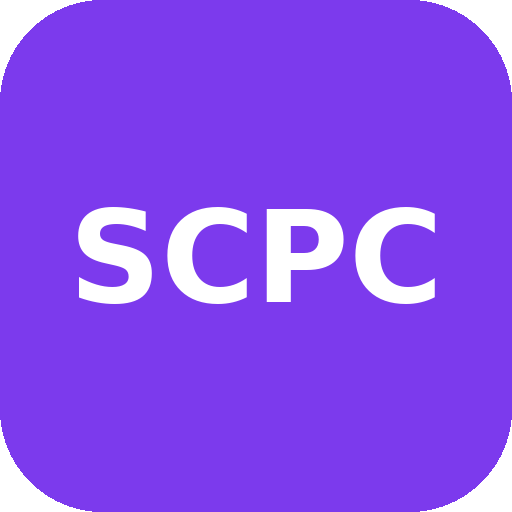
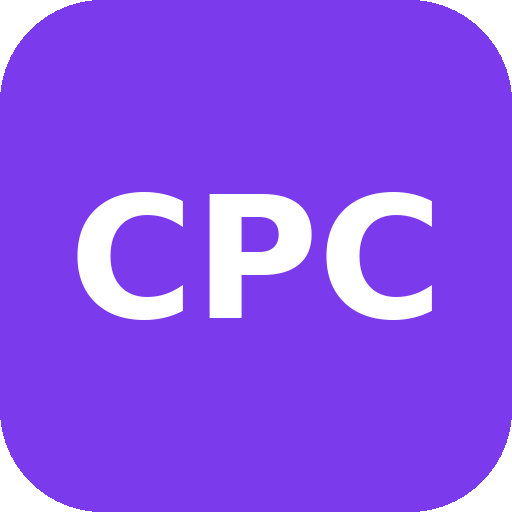
Add files via upload

Changed region(s): [[0.125, 0.375, 0.875, 0.625]]

diff --git a/index.html b/index.html
@@ -3,12 +3,12 @@
 <head>
 <meta charset="UTF-8">
 <meta name="viewport" content="width=device-width, initial-scale=1.0, maximum-scale=1.0, user-scalable=no">
-<title>SCPC - Sistema de Controle de Pagamentos com Cartão</title>
-<meta name="description" content="Sistema de Controle de Pagamentos com Cartão">
+<title>CPC - Controle de Pagamentos com Cartão</title>
+<meta name="description" content="Controle de Pagamentos com Cartão">
 <meta name="theme-color" content="#7c3aed">
 <meta name="apple-mobile-web-app-capable" content="yes">
 <meta name="apple-mobile-web-app-status-bar-style" content="black-translucent">
-<meta name="apple-mobile-web-app-title" content="SCPC">
+<meta name="apple-mobile-web-app-title" content="CPC">
 <link rel="manifest" href="manifest.json">
 <link rel="apple-touch-icon" href="icon-192.png">
 <link rel="icon" type="image/png" sizes="192x192" href="icon-192.png">
@@ -174,8 +174,8 @@ function App(){
   if(!user)return(<div style={{minHeight:"100vh",background:Z.bg,display:"flex",alignItems:"center",justifyContent:"center",fontFamily:Z.ft}}>
     <link href="https://fonts.googleapis.com/css2?family=Outfit:wght@300;400;500;600;700&family=JetBrains+Mono:wght@400;500;700&display=swap" rel="stylesheet"/>
     <div style={{background:Z.cd,border:`1px solid ${Z.bd2}`,borderRadius:16,padding:36,width:"90%",maxWidth:380,textAlign:"center"}}>
-      <div style={{width:56,height:56,borderRadius:14,background:`linear-gradient(135deg,${Z.ac3},${Z.ac2})`,display:"flex",alignItems:"center",justifyContent:"center",fontFamily:Z.mn,fontWeight:700,fontSize:14,color:"#fff",margin:"0 auto 16px"}}>SCPC</div>
-      <h1 style={{color:Z.tx,fontSize:20,fontWeight:600,margin:"0 0 6px"}}>SCPC - Sistema de Controle de Pagamentos com Cartão</h1>
+      <div style={{width:56,height:56,borderRadius:14,background:`linear-gradient(135deg,${Z.ac3},${Z.ac2})`,display:"flex",alignItems:"center",justifyContent:"center",fontFamily:Z.mn,fontWeight:700,fontSize:14,color:"#fff",margin:"0 auto 16px"}}>CPC</div>
+      <h1 style={{color:Z.tx,fontSize:20,fontWeight:600,margin:"0 0 6px"}}>CPC - Controle de Pagamentos com Cartão</h1>
       <p style={{color:Z.tx3,fontSize:12,margin:"0 0 24px"}}>Sistema de Controle de Pagamentos com Cartão</p>
       <button onClick={handleLogin} style={{background:"#fff",color:"#333",border:"none",borderRadius:8,padding:"12px 24px",fontSize:13,fontWeight:600,cursor:"pointer",display:"flex",alignItems:"center",gap:10,margin:"0 auto",fontFamily:Z.ft}}>
         <svg width="18" height="18" viewBox="0 0 24 24"><path d="M22.56 12.25c0-.78-.07-1.53-.2-2.25H12v4.26h5.92a5.06 5.06 0 01-2.2 3.32v2.77h3.57c2.08-1.92 3.28-4.74 3.28-8.1z" fill="#4285F4"/><path d="M12 23c2.97 0 5.46-.98 7.28-2.66l-3.57-2.77c-.98.66-2.23 1.06-3.71 1.06-2.86 0-5.29-1.93-6.16-4.53H2.18v2.84C3.99 20.53 7.7 23 12 23z" fill="#34A853"/><path d="M5.84 14.09c-.22-.66-.35-1.36-.35-2.09s.13-1.43.35-2.09V7.07H2.18C1.43 8.55 1 10.22 1 12s.43 3.45 1.18 4.93l2.85-2.22.81-.62z" fill="#FBBC05"/><path d="M12 5.38c1.62 0 3.06.56 4.21 1.64l3.15-3.15C17.45 2.09 14.97 1 12 1 7.7 1 3.99 3.47 2.18 7.07l3.66 2.84c.87-2.6 3.3-4.53 6.16-4.53z" fill="#EA4335"/></svg>
@@ -215,8 +215,8 @@ function App(){
 
     <header style={{background:Z.cd,borderBottom:`1px solid ${Z.bd}`,padding:"13px 18px",display:"flex",alignItems:"center",justifyContent:"space-between",position:"sticky",top:0,zIndex:50,flexWrap:"wrap",gap:8}}>
       <div style={{display:"flex",alignItems:"center",gap:9}}>
-        <div style={{width:32,height:32,borderRadius:8,background:`linear-gradient(135deg,${Z.ac3},${Z.ac2})`,display:"flex",alignItems:"center",justifyContent:"center",fontFamily:Z.mn,fontWeight:700,fontSize:8,color:"#fff"}}>SCPC</div>
-        <div><h1 style={{margin:0,fontSize:13,fontWeight:600,letterSpacing:"-.02em",lineHeight:1.2}}>SCPC - Sistema de Controle de Pagamentos com Cartão</h1><div style={{fontSize:9,color:Z.tx3,display:"flex",alignItems:"center",gap:5}}>{saving?<><span style={{width:5,height:5,borderRadius:3,background:Z.yl,animation:"pu .8s ease infinite",display:"inline-block"}}/>Sincronizando...</>:<><span style={{width:5,height:5,borderRadius:3,background:Z.gn,display:"inline-block"}}/>Firebase ☁</>}</div></div>
+        <div style={{width:32,height:32,borderRadius:8,background:`linear-gradient(135deg,${Z.ac3},${Z.ac2})`,display:"flex",alignItems:"center",justifyContent:"center",fontFamily:Z.mn,fontWeight:700,fontSize:8,color:"#fff"}}>CPC</div>
+        <div><h1 style={{margin:0,fontSize:13,fontWeight:600,letterSpacing:"-.02em",lineHeight:1.2}}>CPC - Controle de Pagamentos com Cartão</h1><div style={{fontSize:9,color:Z.tx3,display:"flex",alignItems:"center",gap:5}}>{saving?<><span style={{width:5,height:5,borderRadius:3,background:Z.yl,animation:"pu .8s ease infinite",display:"inline-block"}}/>Sincronizando...</>:<><span style={{width:5,height:5,borderRadius:3,background:Z.gn,display:"inline-block"}}/>Firebase ☁</>}</div></div>
       </div>
       <div style={{display:"flex",alignItems:"center",gap:6}}>
         <div style={{display:"flex",alignItems:"center",gap:5}}>